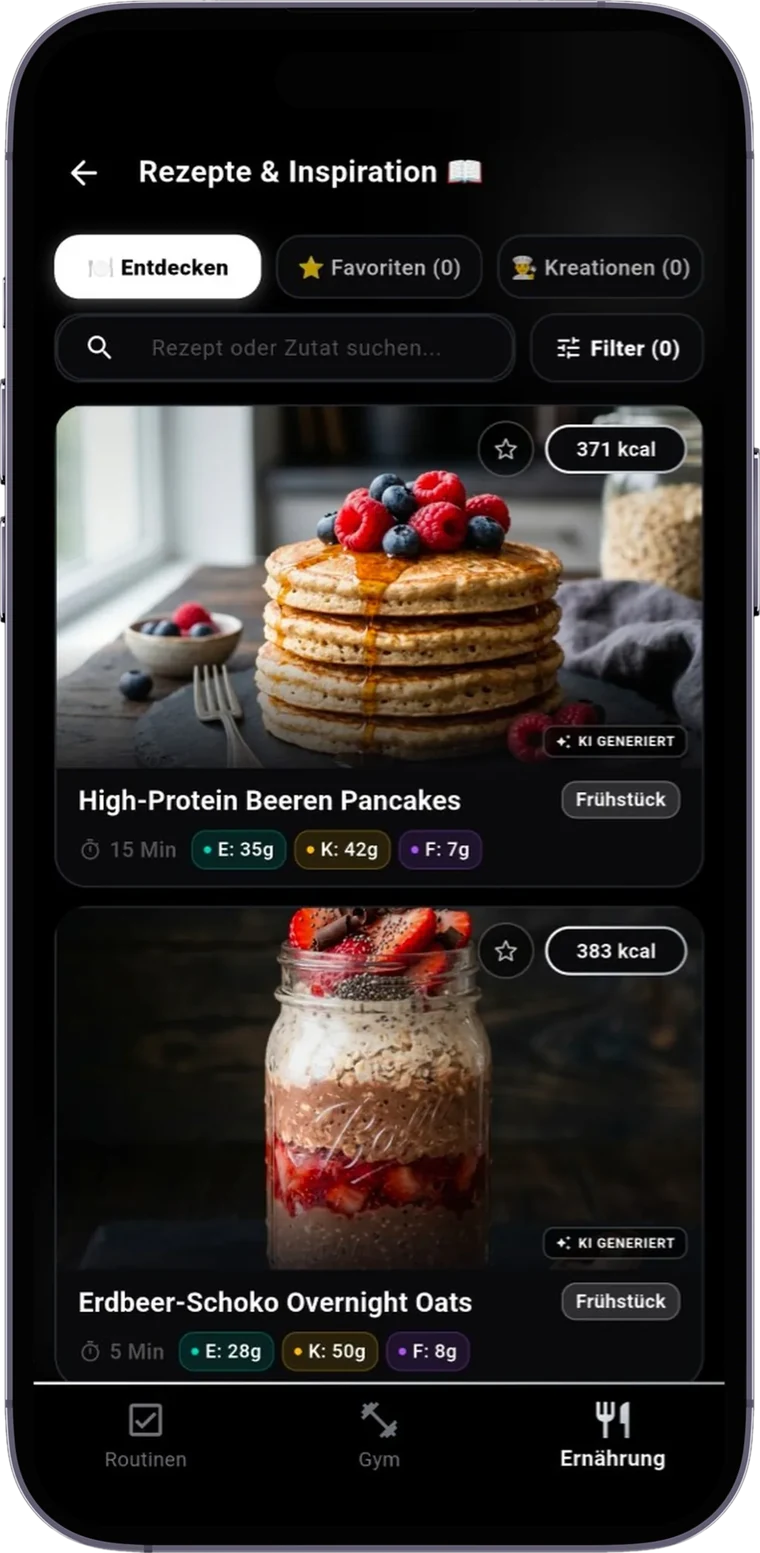
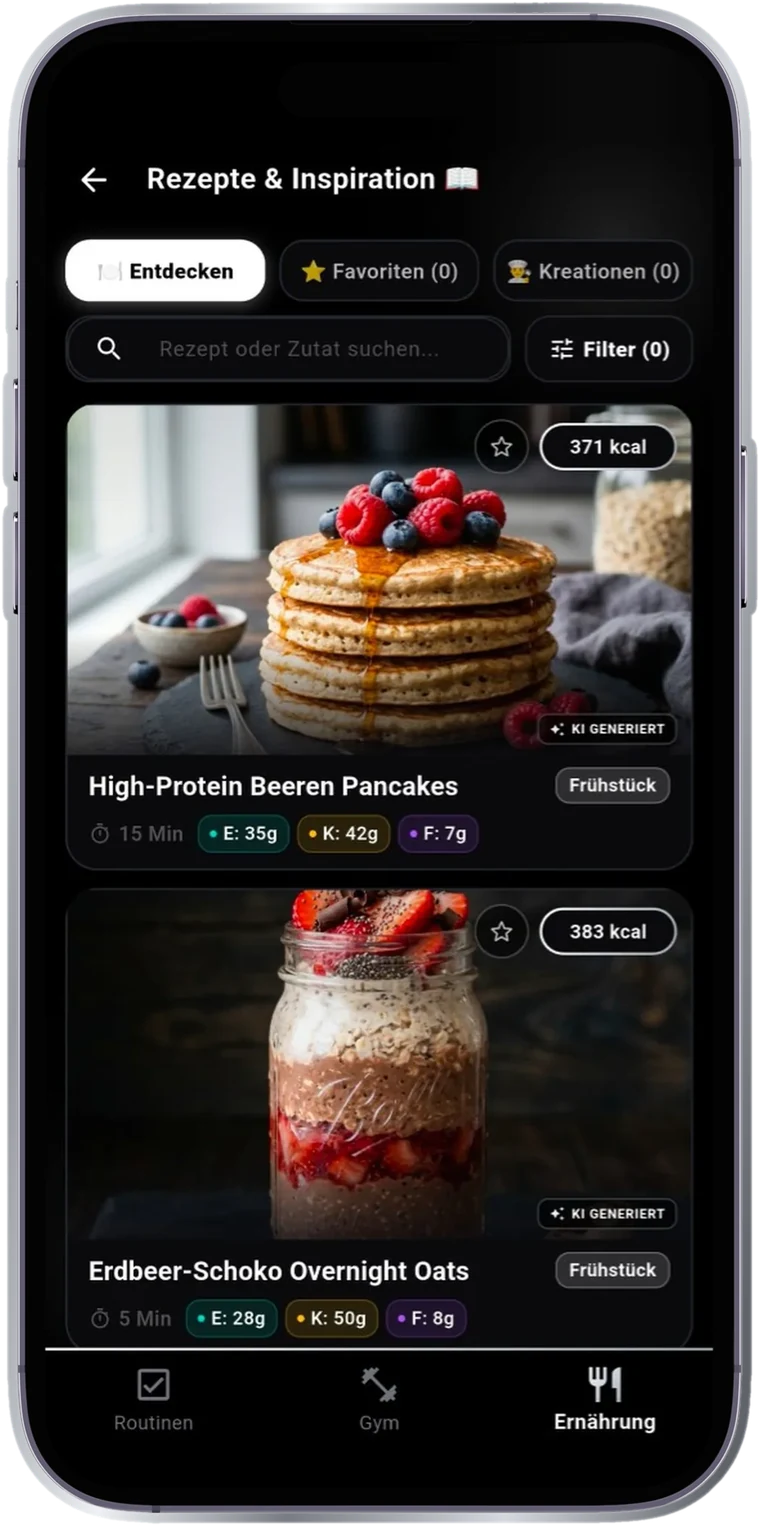
Handys: Titan-Rahmen wie in den Canva-Bildern

Changed region(s): [[0.0, 0.0, 1.0, 1.0], [0.6658, 0.154, 0.9079, 0.1848], [0.6053, 0.7392, 0.6355, 0.77]]

diff --git a/index.html b/index.html
@@ -17,7 +17,7 @@
 <p class="lead">Training, Ernährung und Routinen auf dem eigenen Smartphone Ihrer Beschäftigten. Sie kaufen Plätze zum festen Jahrespreis, Ihre Beschäftigten lösen persönliche Codes in der App ein.</p>
 <div class="cta-row"><a class="btn" href="mailto:app@ajolo.de?subject=Anfrage%20Ajolo%20f%C3%BCr%20Unternehmen&body=Guten%20Tag%2C%0A%0Awir%20interessieren%20uns%20f%C3%BCr%20Ajolo%20Pro%20f%C3%BCr%20unser%20Team.%0A%0AFirma%3A%0AAnsprechperson%3A%0AGew%C3%BCnschte%20Pl%C3%A4tze%3A%0ATelefon%20%28optional%29%3A%0A%0AViele%20Gr%C3%BC%C3%9Fe">Angebot anfordern</a><a class="btn sec" href="#preise">Preise ansehen</a></div>
 <ul class="checks"><li><svg viewBox="0 0 24 24"><path d="M5 12l5 5L19 7"/></svg>Keine Einrichtungsgebühr</li><li><svg viewBox="0 0 24 24"><path d="M5 12l5 5L19 7"/></svg>Persönliche Codes</li><li><svg viewBox="0 0 24 24"><path d="M5 12l5 5L19 7"/></svg>Keine Daten an den Arbeitgeber</li></ul>
-</div><div class="hero-stage"><img class="pp a" src="/assets/phone_routinen_s.webp" srcset="/assets/phone_routinen_s.webp 420w, /assets/phone_routinen.webp 760w" sizes="(max-width:860px) 60vw, 280px" width="760" height="1553" alt="Routinen-Tracker in der Ajolo-App"><img class="pp b" src="/assets/phone_muskel_raenge_s.webp" srcset="/assets/phone_muskel_raenge_s.webp 420w, /assets/phone_muskel_raenge.webp 760w" sizes="(max-width:860px) 60vw, 280px" width="760" height="1553" alt="Muskel-Ränge mit Rangleiter in der Ajolo-App"><div class="pricecard"><b>ab 1,83 €</b><span>pro Platz und Monat bei 100 Plätzen, netto zuzüglich USt.</span></div></div></div></section>
+</div><div class="hero-stage"><img class="pp a" src="/assets/phone_routinen_s.webp?v=3" srcset="/assets/phone_routinen_s.webp?v=3 420w, /assets/phone_routinen.webp?v=3 760w" sizes="(max-width:860px) 60vw, 280px" width="760" height="1526" alt="Routinen-Tracker in der Ajolo-App"><img class="pp b" src="/assets/phone_muskel_raenge_s.webp?v=3" srcset="/assets/phone_muskel_raenge_s.webp?v=3 420w, /assets/phone_muskel_raenge.webp?v=3 760w" sizes="(max-width:860px) 60vw, 280px" width="760" height="1526" alt="Muskel-Ränge mit Rangleiter in der Ajolo-App"><div class="pricecard"><b>ab 1,83 €</b><span>pro Platz und Monat bei 100 Plätzen, netto zuzüglich USt.</span></div></div></div></section>
 <div class="kpis"><div class="wrap"><ul><li><b>5 bis 100</b><span>Plätze pro Paket</span></li><li><b>22 bis 30 €</b><span>netto pro Platz und Jahr</span></li><li><b>0 €</b><span>Einrichtungsgebühr</span></li><li><b>12 Monate</b><span>Laufzeit pro Vertrag</span></li></ul></div></div>
 
 <section><div class="wrap"><p class="eyebrow">Warum Ajolo</p><h2>Ein Angebot für Beschäftigte, das Ihr Unternehmen kaum Aufwand kostet</h2><p class="lead">Betriebliche Angebote für Gesundheit und Wohlbefinden sind für viele Arbeitgeber ein Standortfaktor. Ajolo gibt Ihnen ein solches Angebot, ohne Vertrag mit Studios, ohne Kursplanung und ohne Verwaltungsaufwand.</p>
@@ -31,9 +31,9 @@
 <div class="card"><div class="ico"><svg viewBox="0 0 24 24" aria-hidden="true"><circle cx="12" cy="12" r="9"/><path d="M8 12.500l2.800 2.800L16 9.500"/></svg></div><h3>Freiwillig und niedrigschwellig</h3><p>Wer Ajolo nutzt, startet in Minuten, ohne Konto. Anfänger und Fortgeschrittene finden Pläne und Übungen mit Video.</p></div></div></div></section>
 
 <section class="alt"><div class="wrap"><p class="eyebrow">Was enthalten ist</p><h2>Eine App für drei Bereiche</h2><p class="lead">Jeder Platz schaltet Ajolo Pro für eine Person frei. Die App läuft auf iPhone (ab iOS 16) und Android (ab 8.0).</p>
-<div class="showcase"><figure><div class="vis"><img class="pp " src="/assets/phone_training_s.webp" srcset="/assets/phone_training_s.webp 420w, /assets/phone_training.webp 760w" sizes="(max-width:860px) 60vw, 280px" width="760" height="1553" alt="Workout mit Sätzen, Gewichten und Pausentimer" loading=lazy></div><figcaption><b>Training</b>1.394 Übungen mit Video, 10 fertige Pläne und ein Plan nach persönlichen Angaben.</figcaption></figure>
-<figure><div class="vis"><img class="pp " src="/assets/phone_ernaehrung_s.webp" srcset="/assets/phone_ernaehrung_s.webp 420w, /assets/phone_ernaehrung.webp 760w" sizes="(max-width:860px) 60vw, 280px" width="760" height="1553" alt="Tagesübersicht mit Kalorienring und Makros" loading=lazy></div><figcaption><b>Ernährung</b>Mahlzeiten, Barcode, Foto und Sprache. Dazu 100 Rezepte und Auswertungen.</figcaption></figure>
-<figure><div class="vis"><img class="pp " src="/assets/phone_streak_s.webp" srcset="/assets/phone_streak_s.webp 420w, /assets/phone_streak.webp 760w" sizes="(max-width:860px) 60vw, 280px" width="760" height="1553" alt="Streak mit Serienkalender" loading=lazy></div><figcaption><b>Routinen</b>Gewohnheiten mit Wochenplan, Streaks und Rängen von Eisen bis Ajolo Elite.</figcaption></figure></div>
+<div class="showcase"><figure><div class="vis"><img class="pp " src="/assets/phone_training_s.webp?v=3" srcset="/assets/phone_training_s.webp?v=3 420w, /assets/phone_training.webp?v=3 760w" sizes="(max-width:860px) 60vw, 280px" width="760" height="1526" alt="Workout mit Sätzen, Gewichten und Pausentimer" loading=lazy></div><figcaption><b>Training</b>1.394 Übungen mit Video, 10 fertige Pläne und ein Plan nach persönlichen Angaben.</figcaption></figure>
+<figure><div class="vis"><img class="pp " src="/assets/phone_ernaehrung_s.webp?v=3" srcset="/assets/phone_ernaehrung_s.webp?v=3 420w, /assets/phone_ernaehrung.webp?v=3 760w" sizes="(max-width:860px) 60vw, 280px" width="760" height="1526" alt="Tagesübersicht mit Kalorienring und Makros" loading=lazy></div><figcaption><b>Ernährung</b>Mahlzeiten, Barcode, Foto und Sprache. Dazu 100 Rezepte und Auswertungen.</figcaption></figure>
+<figure><div class="vis"><img class="pp " src="/assets/phone_streak_s.webp?v=3" srcset="/assets/phone_streak_s.webp?v=3 420w, /assets/phone_streak.webp?v=3 760w" sizes="(max-width:860px) 60vw, 280px" width="760" height="1526" alt="Streak mit Serienkalender" loading=lazy></div><figcaption><b>Routinen</b>Gewohnheiten mit Wochenplan, Streaks und Rängen von Eisen bis Ajolo Elite.</figcaption></figure></div>
 <p class="note" style="text-align:center">Was Pro gegenüber der kostenlosen Version freischaltet, steht auf <a href="https://ajolo.de/#pro">ajolo.de</a>.</p></div></section>
 
 <section id="ablauf"><div class="wrap"><p class="eyebrow">Ablauf</p><h2>In vier Schritten startklar</h2>
